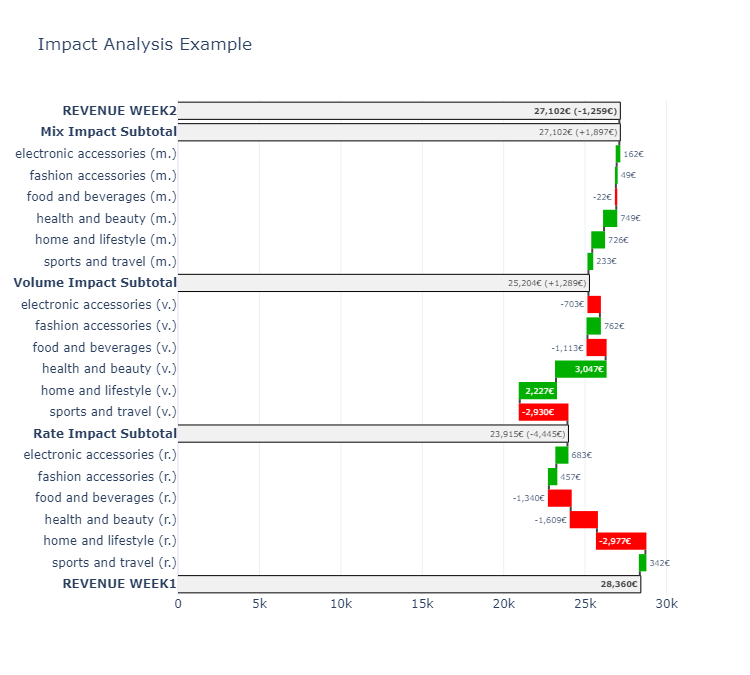
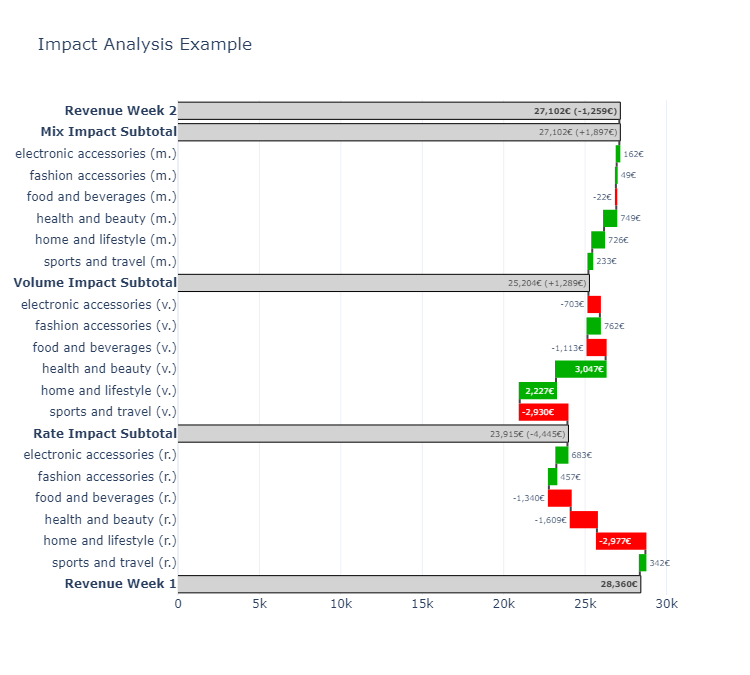
docs: update readme example

diff --git a/README.md b/README.md
@@ -28,12 +28,13 @@ sales_week1 = pl.read_csv("data/sales_week1.csv")
 sales_week2 = pl.read_csv("data/sales_week2.csv")
 
 # Perform the impact analysis
+# Note, the primary and comparison DFs must be in the same format
 impact_df = impact_table(
-    df_primary=sales_week2,
-    df_comparison=sales_week1,
-    group_by_columns=["product_category"],
-    volume_metric_name="item_quantity",
-    outcome_metric_name="revenue"
+    df_primary=sales_week2, # Data to analyse
+    df_comparison=sales_week1, # Data to compare against
+    group_by_columns=["product_category"], # Dimension(s) to use
+    volume_metric_name="item_quantity", # Column name containing volume (e.g. quantity)
+    outcome_metric_name="revenue" # Column name containing outcome (e.g. revenue)
 )
 
 ```
@@ -46,12 +47,12 @@ from l4v1 import impact_plot
 fig = impact_plot(
     impact_table=impact_df,
     format_data_labels="{:,.0f}€", # Optional
-    primary_total_label="revenue week 2", # Optional
-    comparison_total_label="Revenue Week 1", # Optional
+    primary_total_label="revenue week 2", # Optional label
+    comparison_total_label="Revenue Week 1", # Optional label
     title="Impact Analysis Example", # Optional title
-    color_total="lightgray", # Optional for total colors
-    color_increase="#00AF00", # Optional for increase color
-    color_decrease="#FF0000" # Optional for decrease color
+    color_total="lightgray", # Optional for total bar colors
+    color_increase="#00AF00", # Optional for increase bar color
+    color_decrease="#FF0000" # Optional for decrease bar color
 )
 fig.show()
 ```
@@ -60,13 +61,20 @@ This will generate a waterfall plot that illustrates how different product categ
 ![Impact Plot Example](docs/impact_plot_example.png)
 
 #### Interpreting the Results
-The impact plot visualizes three types of impacts:
+The impact plot visualizes always three types of impacts rate, volume, and mix impact:
 
-* Rate Impact: Changes in the average rate value within each category (e.g., average unit price).
-* Volume Impact: Changes in volume (e.g., quantities sold).
-* Mix Impact: Effects due to the shift in proportions among categories (e.g., if a higher proportion of sales comes from high-value items).
+* Rate Impact: Reflects changes in average values within each category, such as average unit price.
+* Volume Impact: Represents changes in quantity, like the number of units sold.
+* Mix Impact: Indicates shifts in the distribution across categories, such as a larger proportion of sales from high-value items.
+
+Additionally, if there are new or discontinued elements between the datasets, they are categorized under "new" or "old" impacts, signifying their presence in only one of the datasets.
+
+The impact plot aids in understanding the drivers behind revenue changes. For example:
+* The decline in the Food and Beverages category is due to decreases in both rate (-€1,340) and volume (-€1,113).
+* Sports and Travel Equipment shows a positive rate impact (+€342) due to an increase in average sales price; however, a significant drop in volume (-€2,930) results in a net negative effect.
+* Health and Beauty witnessed a drop in average sales price (-€1,609), but a substantial increase in volume (+€3,407) led to a positive mix impact (+€749), making it the best-performing category compared to the previous week.
 
 ### Features
-Data Grouping: Group your data based on one or more columns.
-Impact Calculation: Automatically calculate volume, outcome, and rate impacts between two datasets.
-Visual Representation: Create waterfall plots to visually represent the impact analysis results.
+* Data Grouping: Group your data based on one or more columns.
+* Impact Calculation: Automatically calculate volume, outcome, and rate impacts between two datasets.
+* Visual Representation: Create waterfall plots to visually represent the impact analysis results.
